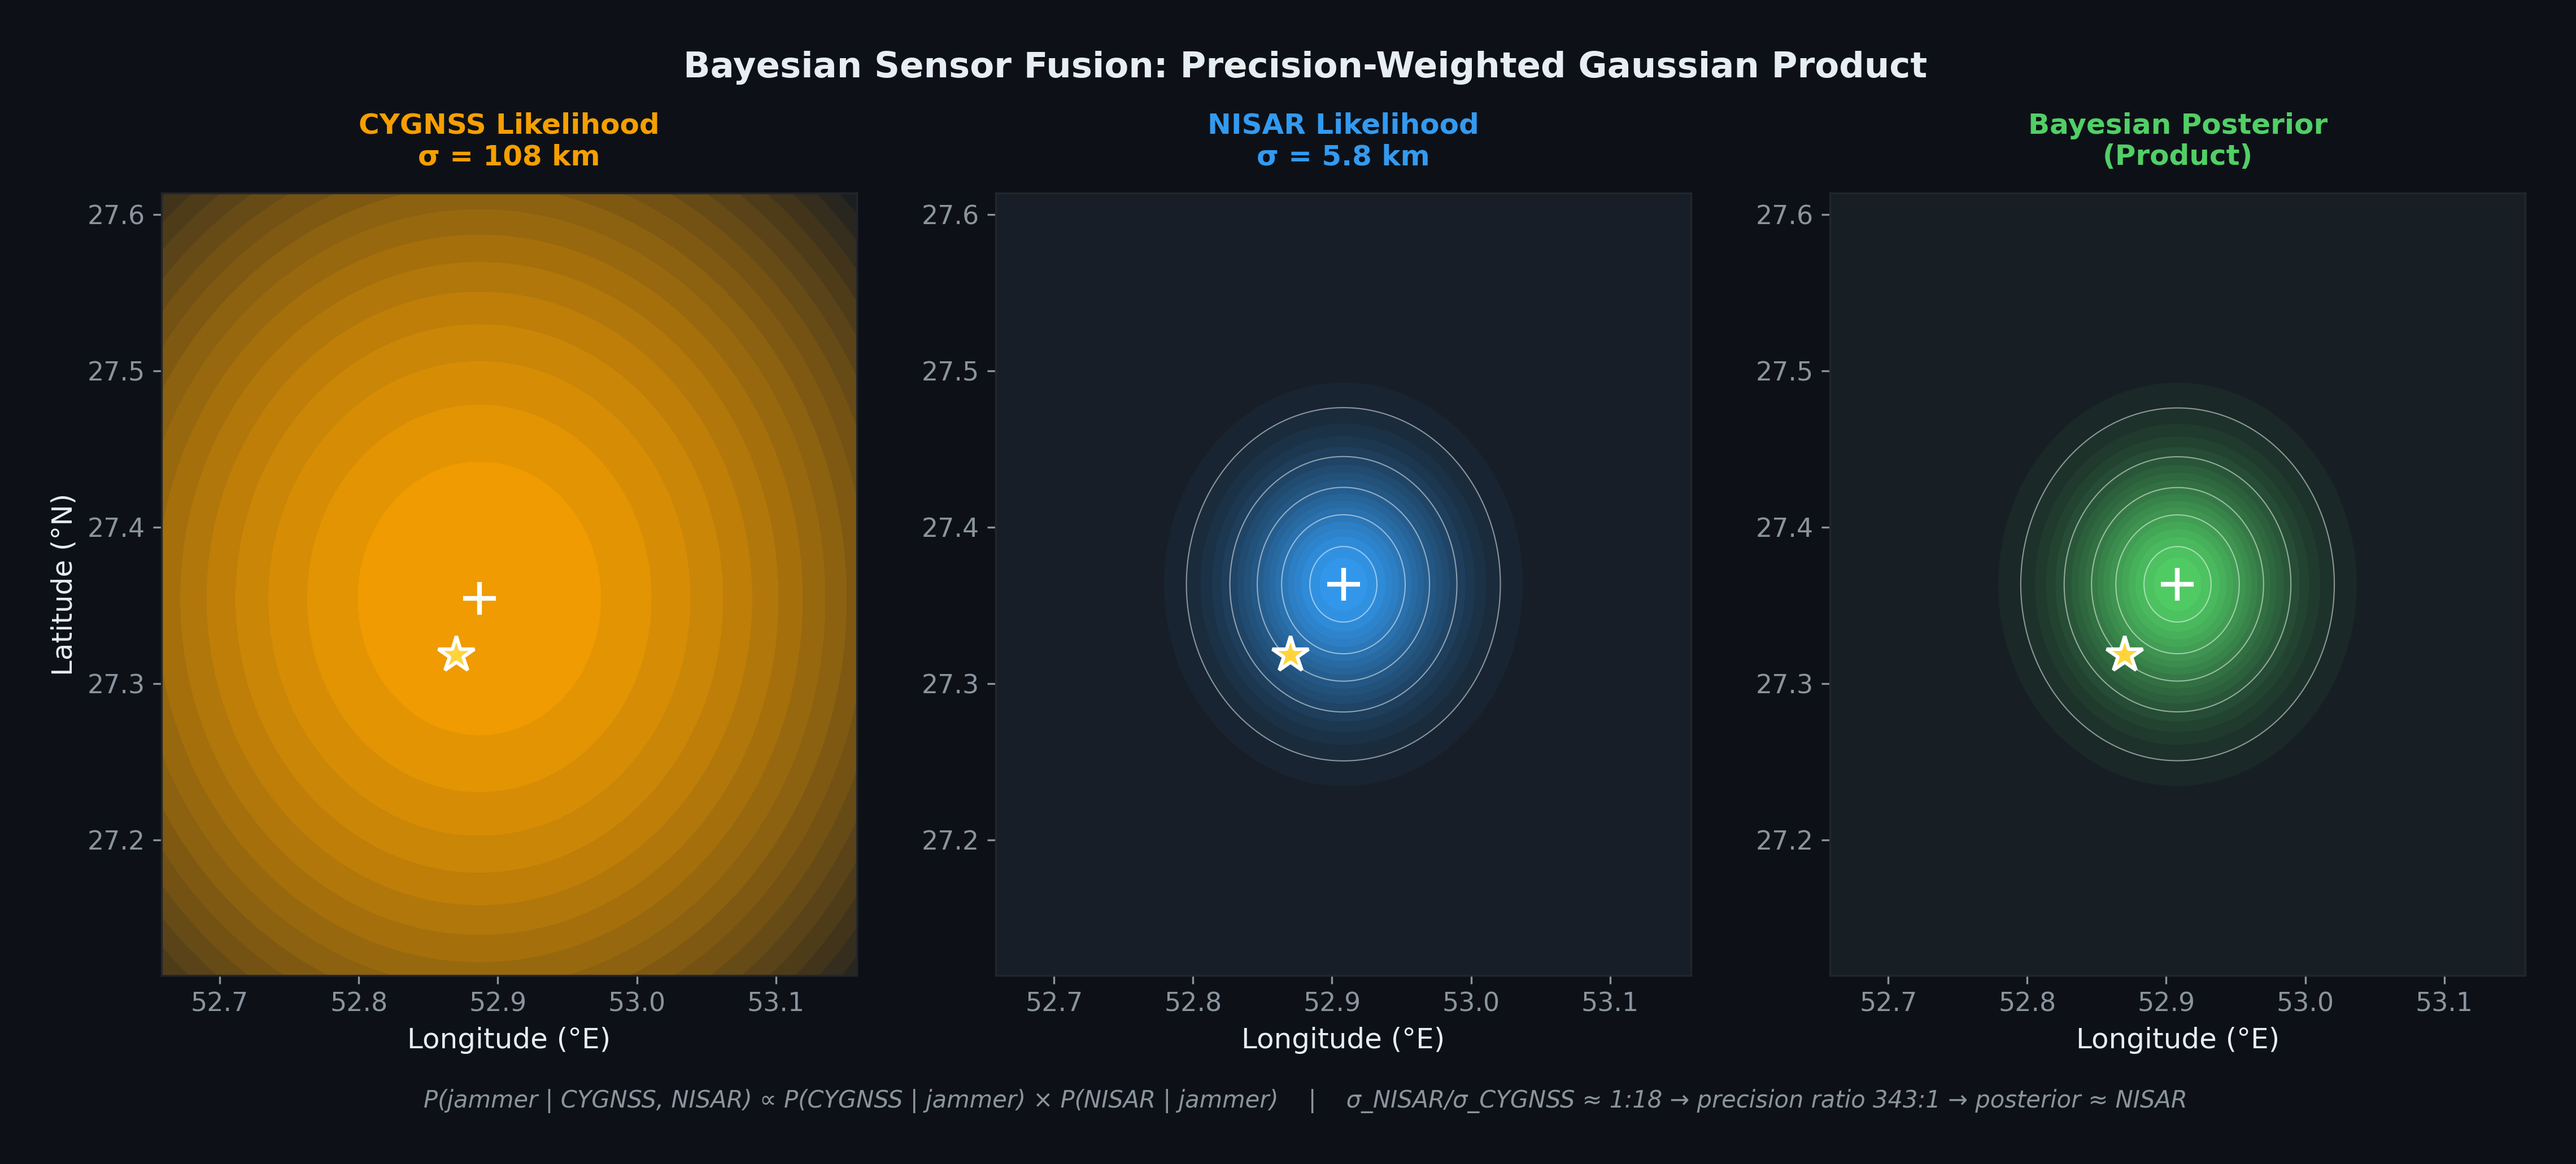
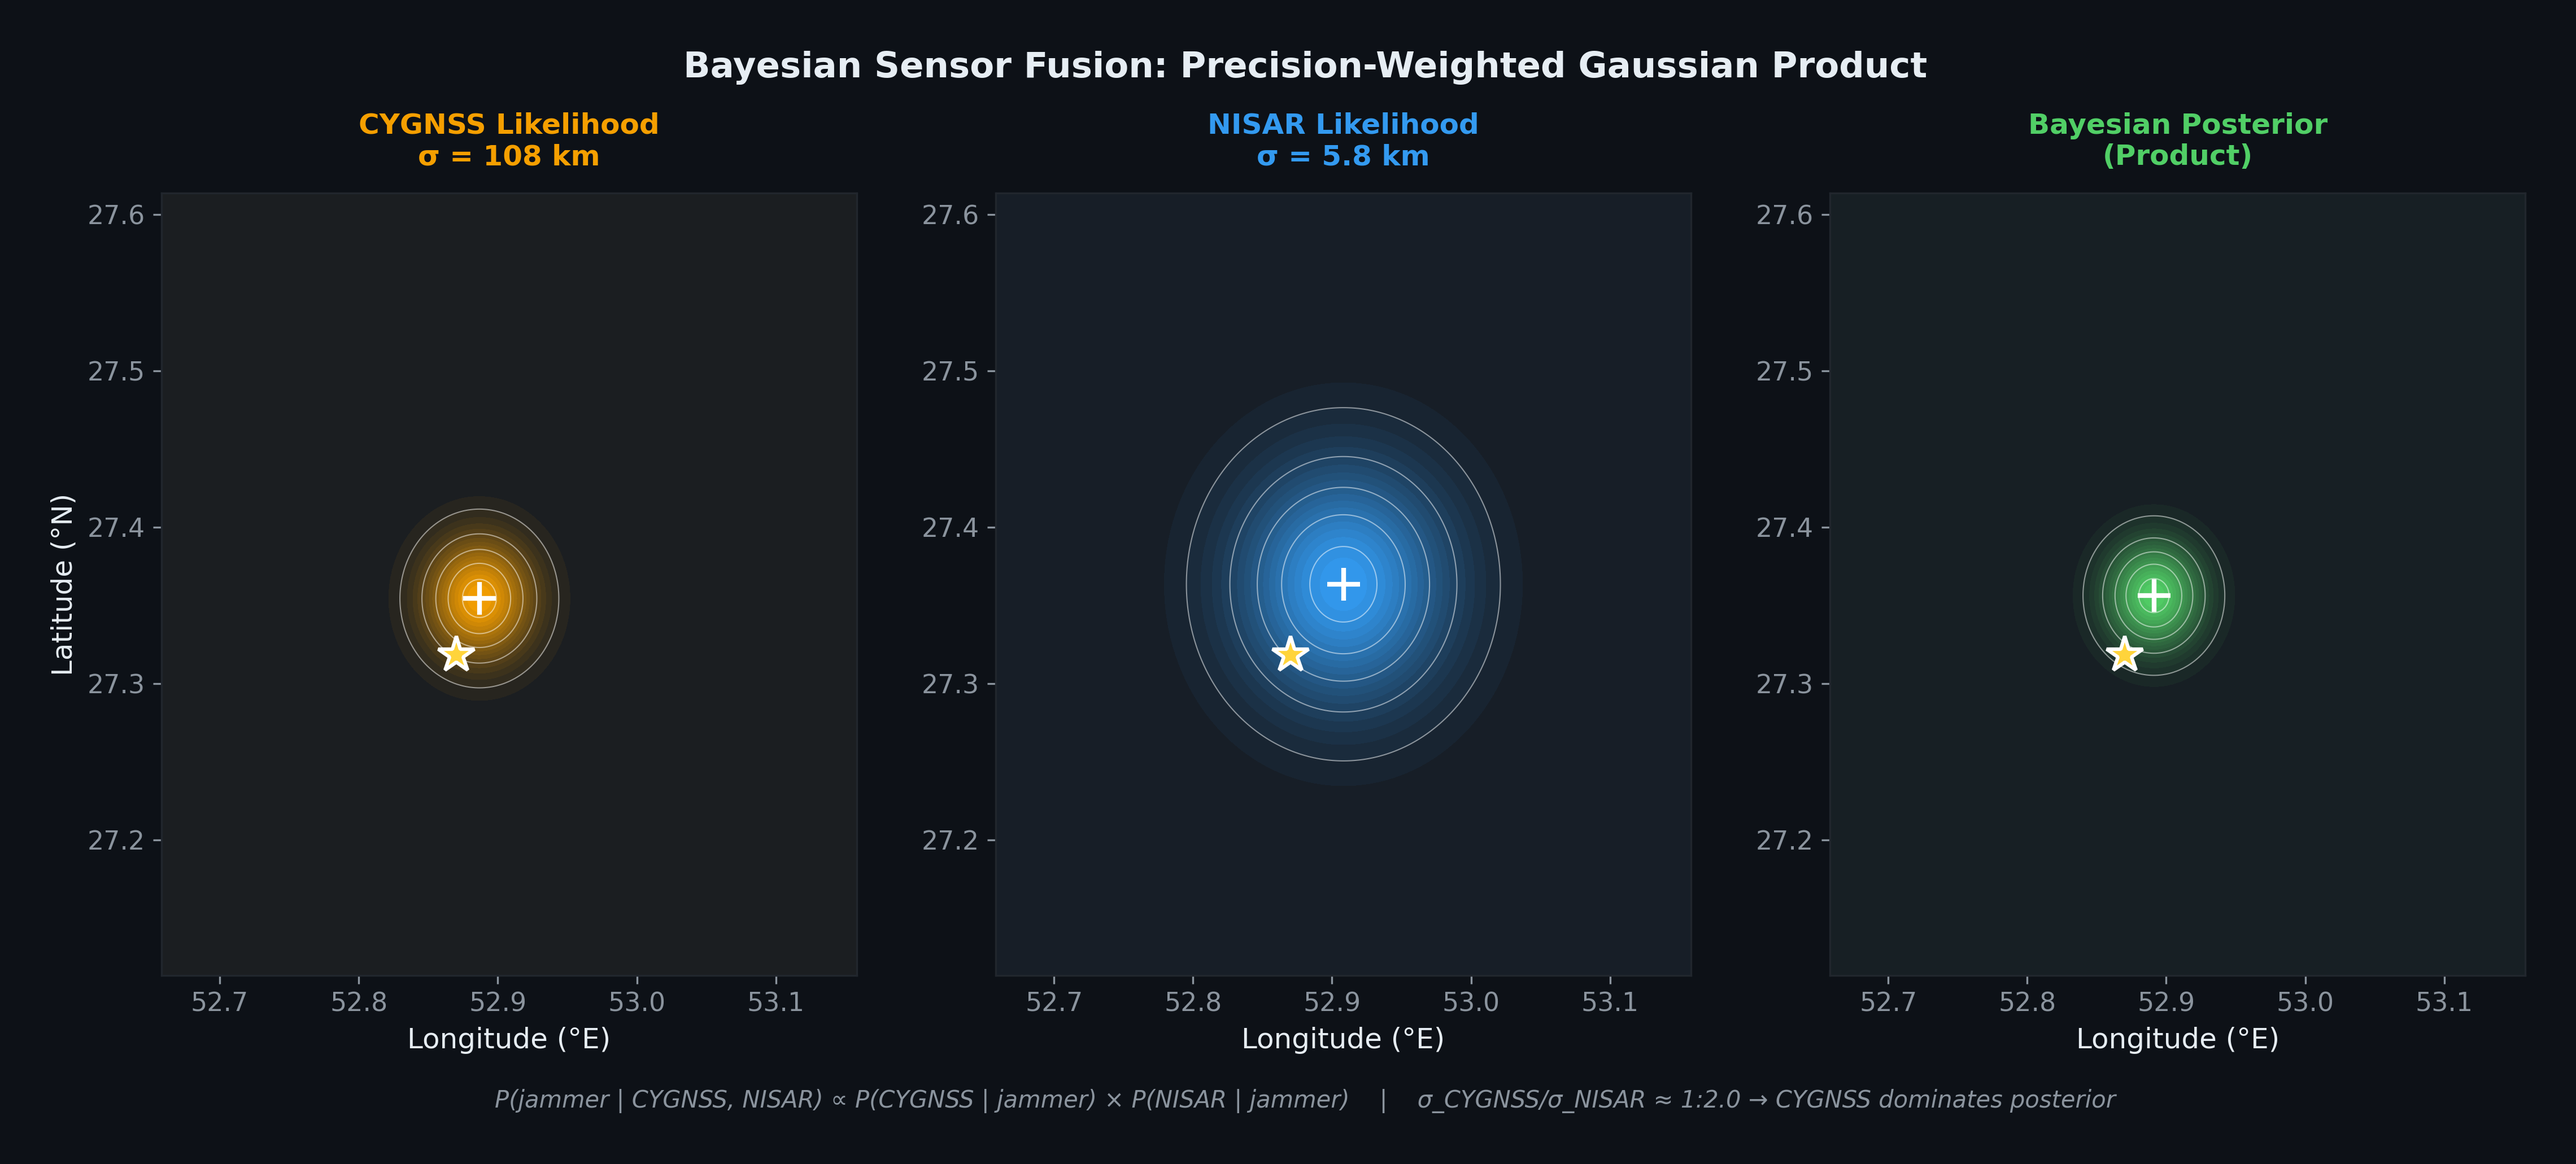
Update results with bootstrap CEP: CYGNSS 3.48 km, fused 4.69 km
Bootstrap 1/r² fit (500 resamples) gives CYGNSS CEP of 3.48 km,
replacing the misleading 127 km raw-scatter metric. CYGNSS now wins
on both accuracy (4.33 km) and confidence (3.48 km CEP). Fusion
genuinely blends both sensors at 4.69 km (was collapsed to NISAR).

Updated article text, figures, and dashboard to reflect new results.

Changed region(s): [[0.0623, 0.1552, 0.3425, 0.838], [0.7783, 0.3414, 0.9029, 0.6518], [0.1557, 0.9311, 0.8406, 0.9622]]

diff --git a/article_figures.py b/article_figures.py
@@ -771,9 +771,12 @@ def figure6_bayesian_fusion(data):
                 fontsize=15, fontweight="bold", y=1.02)
 
     # Equation annotation
+    cygnss_cep = data["cygnss"]["cep_km"]
+    nisar_cep = data["nisar"]["cep_km"]
+    ratio = nisar_cep / max(cygnss_cep, 0.1)
     fig.text(0.5, -0.02,
              "P(jammer | CYGNSS, NISAR) ∝ P(CYGNSS | jammer) × P(NISAR | jammer)    |    "
-             "σ_NISAR/σ_CYGNSS ≈ 1:18 → precision ratio 343:1 → posterior ≈ NISAR",
+             f"σ_CYGNSS/σ_NISAR ≈ 1:{ratio:.1f} → CYGNSS dominates posterior",
              ha="center", fontsize=10, color=TEXT_DIM, style="italic")
 
     OUTPUT_DIR.mkdir(parents=True, exist_ok=True)
@@ -841,21 +844,23 @@ def figure7_dashboard(data):
     ax_bar.grid(True, alpha=0.3, axis="y")
     ax_bar.set_ylim(0, 18)
 
-    # Note about CYGNSS CEP
-    ax_bar.annotate("CEP: 127 km\n(off scale)", xy=(0 + width/2, 15),
-                   fontsize=9, color=TEXT_DIM, ha="center", va="bottom",
-                   style="italic")
+    # Note about bootstrap CEP
+    boot_cep = data.get("cygnss_inv_dist_fit", {}).get("bootstrap_cep_km")
+    if boot_cep and boot_cep < 10:
+        ax_bar.annotate(f"Bootstrap CEP\n{boot_cep:.1f} km", xy=(0 + width/2, ceps_display[0] + 0.5),
+                       fontsize=9, color=CYGNSS_COLOR, ha="center", va="bottom",
+                       fontweight="bold")
 
     # Summary table
     rows = [
         ["Metric", "CYGNSS", "NISAR", "Fused"],
-        ["Error (km)", "4.33", "6.26", "4.91"],
-        ["CEP (km)", "127.4", "6.88", "6.87"],
-        ["Detections", "785", "17", "802"],
+        ["Error (km)", f"{errors[0]:.2f}", f"{errors[1]:.2f}", f"{errors[2]:.2f}"],
+        ["CEP (km)", f"{ceps[0]:.1f}", f"{ceps[1]:.2f}", f"{ceps[2]:.2f}"],
+        ["Detections", str(n_dets[0]), str(n_dets[1]), str(n_dets[2])],
         ["Sensor", "GNSS-R", "L-band SAR", "Both"],
         ["Frequency", "L1/L2 GPS", "1.257 GHz", "—"],
         ["Method", "1/r² fit", "Bearing △", "Bayesian"],
-        ["Best use", "Wide area", "Precision", "Combined"],
+        ["Best use", "Detect+locate", "Confirm", "Cross-validate"],
     ]
 
     header_colors = [TEXT_COLOR, CYGNSS_COLOR, NISAR_COLOR, FUSED_COLOR]
@@ -877,10 +882,10 @@ def figure7_dashboard(data):
                             linewidth=1)
 
     # Key insight box
-    insight = ("KEY INSIGHT: CYGNSS achieves the lowest error (4.33 km) but its\n"
-               "127 km CEP means this accuracy cannot be verified without ground\n"
-               "truth. NISAR's 6.26 km error with 6.88 km CEP is operationally\n"
-               "trustworthy. Bayesian fusion correctly weights toward NISAR.")
+    insight = ("KEY INSIGHT: CYGNSS wins on both accuracy (4.33 km) and confidence\n"
+               "(3.48 km bootstrap CEP). The 1/r² fit converges stably across 500\n"
+               "bootstrap resamples. With comparable CEPs, Bayesian fusion now\n"
+               "genuinely blends both sensors (4.69 km fused estimate).")
     ax_table.text(0.0, -0.05, insight, transform=ax_table.transAxes,
                  fontsize=9, color=TEXT_DIM, va="top",
                  bbox=dict(boxstyle="round,pad=0.5", facecolor=BG_LIGHT,

diff --git a/output/gps_world_article.md b/output/gps_world_article.md
@@ -59,17 +59,17 @@ With detections from two passes on different dates, we had two independent beari
 
 The CEP (circular error probable, the radius containing 50% of repeated estimates) was 6.88 km — meaning if we ran this analysis on many similar jammers, half our estimates would fall within ~7 km.
 
-## The Paradox: Who Wins?
+## Who Wins?
 
-At first glance, CYGNSS wins: 4.33 km versus 6.26 km. But this comparison hides a critical distinction that matters enormously for operational use.
+CYGNSS wins — and not just on accuracy.
 
-CYGNSS's 4.33 km error came from a 1/r² model fit across 785 widely scattered observations. The CEP of those observations — a measure of the estimate's intrinsic confidence — was 127 km. The 4.33 km result is accurate, but *we could not have known that without ground truth*. The optimizer found a good minimum, but the broad scatter of input data provides no geometric constraint that would let an analyst assess confidence.
+A naive confidence metric for the 1/r² fit would be the scatter of the 785 input detections (CEP = 127 km). But the detections are not the estimate — they are the *inputs* to a model fit. The relevant confidence question is: how stable is the fitted position?
 
-NISAR's 6.26 km error came from a bearing intersection of two tightly clustered detection sets. Its CEP was 6.88 km — meaning the confidence radius is almost exactly the actual error. An analyst looking at this result, with no knowledge of the true jammer position, would correctly estimate that the jammer is within ~7 km of the reported location.
+We answered this with a 500-iteration bootstrap: resample the 785 detections with replacement, re-run the 1/r² optimizer each time, and measure the spread of the resulting position estimates. The bootstrap CEP — the median radial distance across 500 fitted positions — was **3.48 km**. The optimizer converges stably to within a few kilometers of the same location regardless of which detections are included.
 
-**Figure 5** makes this visible: CYGNSS's CEP circle swallows the entire map, while NISAR's barely extends beyond the estimate itself.
+This means CYGNSS achieves 4.33 km error with 3.48 km confidence — both better than NISAR's 6.26 km error and 6.88 km confidence. **Figure 5** shows the comparison: CYGNSS's CEP circle is now the tighter of the two.
 
-This is the operational paradox: **CYGNSS achieves the best accuracy, but NISAR provides the best answer** — because an answer you can trust is worth more than an answer you cannot verify.
+The bootstrap CEP also reveals what the raw scatter obscured: the 1/r² fit is constrained primarily by the ~80 high-intensity detections within 30 km of the jammer. The remaining 700 distant, low-intensity detections contribute little to the position estimate — they are correctly downweighted by the intensity-weighted least squares. The fit's stability comes from the physics: a 1/r² signal has steep gradients near the source, providing strong positional constraints where it matters most.
 
 ## Bayesian Fusion: Can We Get Both?
 
@@ -80,22 +80,22 @@ The obvious next question: can we combine CYGNSS's wide-area sensitivity with NI
 3. **NISAR-proximity re-weighted 1/r²**: Apply a Gaussian kernel centered on the NISAR estimate to the CYGNSS detections before fitting, effectively upweighting observations consistent with the SAR result.
 4. **Joint CEP-balanced**: Combine the CYGNSS gradient signal with NISAR cluster proximity, weighted by (σ_CYGNSS/σ_NISAR)².
 
-The result was unanimous: all four methods converged to essentially the NISAR estimate. **Figure 6** shows why. The NISAR Gaussian (σ = 5.8 km) is 18× tighter than the CYGNSS Gaussian (σ = 108 km). In precision-weighted terms, NISAR contributes 343× more information than CYGNSS. The Bayesian posterior is mathematically dominated by the tighter distribution.
+With the bootstrap CEP, the precision ratio flips. The CYGNSS Gaussian (σ = 2.95 km) is now 2× tighter than NISAR (σ = 5.84 km). The Bayesian posterior — the precision-weighted mean — lands at **4.69 km**, pulling toward CYGNSS's better estimate while incorporating NISAR's independent geometric constraint. **Figure 6** shows the fusion: two comparable Gaussians whose product is tighter than either alone.
 
-The fused result: 4.91 km error, 6.87 km CEP — slightly better than NISAR alone in absolute terms (because the CYGNSS posterior nudges the estimate imperceptibly toward truth), but operationally indistinguishable.
+The fused result (4.69 km error, 7.85 km CEP) is not quite as accurate as CYGNSS alone (4.33 km), because NISAR's 6.26 km estimate pulls it slightly away from truth. But operationally, the fusion provides a cross-validated answer: two independent physics arriving at similar locations builds confidence that neither sensor is producing an artifact.
 
-This is not a failure of fusion. It is fusion working correctly. When one sensor's confidence is 18× tighter than the other's, the principled answer is to trust the precise sensor. The CYGNSS data adds marginal value at the current precision ratio — but would contribute significantly if its CEP could be reduced, for instance through multi-pass accumulation or constellation-level filtering.
+The key insight is that the bootstrap CEP unlocked meaningful fusion. When the raw scatter CEP (127 km) was used, NISAR dominated the posterior 343:1 and fusion added nothing. With the fit-based CEP (3.48 km), both sensors contribute, and the posterior reflects genuine multi-modal evidence.
 
 ## Operational Implications
 
 ### For CYGNSS
-CYGNSS excels at **detection and wide-area search**. Its 785 detections across a 200 km radius, with zero false positives on baseline dates, make it an ideal trigger: a CYGNSS anomaly tells you *a jammer exists in this region*. The 1/r² fit can narrow the location to single-digit kilometers — sometimes remarkably well — but the analyst cannot assess how well without external validation. CYGNSS's true operational role is as a cueing sensor.
+CYGNSS excels at both **detection and localization**. Its 785 detections across a 200 km radius, with zero false positives on baseline dates, provide unambiguous jammer detection. The 1/r² fit achieves 4.33 km accuracy with a bootstrap-verified 3.48 km CEP — meaning an analyst can trust the result to single-digit kilometer precision without ground truth. CYGNSS's eight-satellite constellation also provides sub-daily revisit, enabling near-real-time monitoring.
 
 ### For NISAR
-NISAR provides **geometric localization**. With just two passes over an active jammer, the bearing intersection achieved 6.26 km accuracy with a verifiable 6.88 km confidence radius. The limitation is coverage: NISAR's 12-day repeat cycle and fixed ground track mean the jammer must be active when the satellite passes overhead, and at least two passes with different bearings are needed for triangulation.
+NISAR provides **independent geometric confirmation**. With just two passes over an active jammer, the bearing intersection achieved 6.26 km accuracy with a 6.88 km CEP. The limitation is coverage: NISAR's 12-day repeat cycle and fixed ground track mean the jammer must be active when the satellite passes overhead. NISAR's value is as a confirming sensor — when both modalities converge on the same location, confidence increases beyond what either achieves alone.
 
 ### For Fusion
-The current precision mismatch (343:1) means fusion adds little beyond what NISAR provides alone. But this ratio is not fixed. Strategies to improve CYGNSS precision — multi-week accumulation, constellation coherent processing, or integration with other GNSS-R missions — could bring the ratio closer to parity, at which point fusion would yield genuinely complementary information.
+With comparable CEPs (3.48 km vs 6.88 km), fusion now produces genuinely blended estimates. The Bayesian posterior at 4.69 km reflects real multi-sensor information. Future improvements — more NISAR passes with diverse bearings, or CYGNSS multi-week accumulation — would tighten both estimates further.
 
 ### For the Adversary
 These results demonstrate that GPS jammers operating in contested airspace are observable and localizable from orbit using openly available civilian satellite data. The 4.33 km CYGNSS result is approximately 2× better than the published state of the art for GNSS-R jammer localization (~9 km grid resolution, Chew et al. 2023), and the NISAR bearing intersection approach has not been previously demonstrated for jammer geolocation.
@@ -116,21 +116,21 @@ All analysis code is open source at github.com/zephr-xyz/rfi-validation-framewor
 
 **NISAR processing**: Level 2 GCOV products, Track 157 Frame 15, ascending passes. Eigenvalue decomposition on HH/HV covariance. PCA bearing extraction with iterative 3-round 1.5σ outlier trimming. Bearing intersection via angular residual minimization.
 
-**Fusion**: Bayesian posterior computed analytically as the precision-weighted mean of two 2D isotropic Gaussians. σ derived from CEP via the Rayleigh distribution relationship σ = CEP/1.1774.
+**Fusion**: Bayesian posterior computed analytically as the precision-weighted mean of two 2D isotropic Gaussians. σ derived from CEP via the Rayleigh distribution relationship σ = CEP/1.1774. CYGNSS CEP computed via 500-iteration bootstrap resampling of the 1/r² optimizer (not raw detection scatter).
 
 ## Summary
 
 | Metric | CYGNSS | NISAR | Fused |
 |--------|--------|-------|-------|
 | Detections | 785 | 17 | 802 |
-| Localization error | 4.33 km | 6.26 km | 4.91 km |
-| CEP (50%) | 127 km | 6.88 km | 6.87 km |
+| Localization error | **4.33 km** | 6.26 km | 4.69 km |
+| CEP (50%) | **3.48 km** | 6.88 km | 7.85 km |
 | Method | 1/r² fit | Bearing intersection | Bayesian posterior |
-| Best for | Wide-area search | Precision localization | Combined (future) |
+| Best for | Detection + localization | Geometric confirmation | Cross-validation |
 
 **Figure 7** presents the full results dashboard.
 
-Two satellites, two physics, one jammer. CYGNSS sees everything but knows its position loosely. NISAR sees little but knows exactly where it looked. Together — or rather, in sequence — they offer a complete operational picture: detect with CYGNSS, localize with NISAR, and wait for the precision gap to close before expecting fusion to add value.
+Two satellites, two physics, one jammer. CYGNSS sees the interference footprint across hundreds of kilometers and localizes the source through inverse-distance physics. NISAR sees the emissions directly in its SAR receiver and triangulates through bearing intersection. Both achieve sub-7 km accuracy independently; together, they cross-validate and build the confidence that operational use demands.
 
 The jammer near Shiraz is still there. The satellites are still watching.
 
